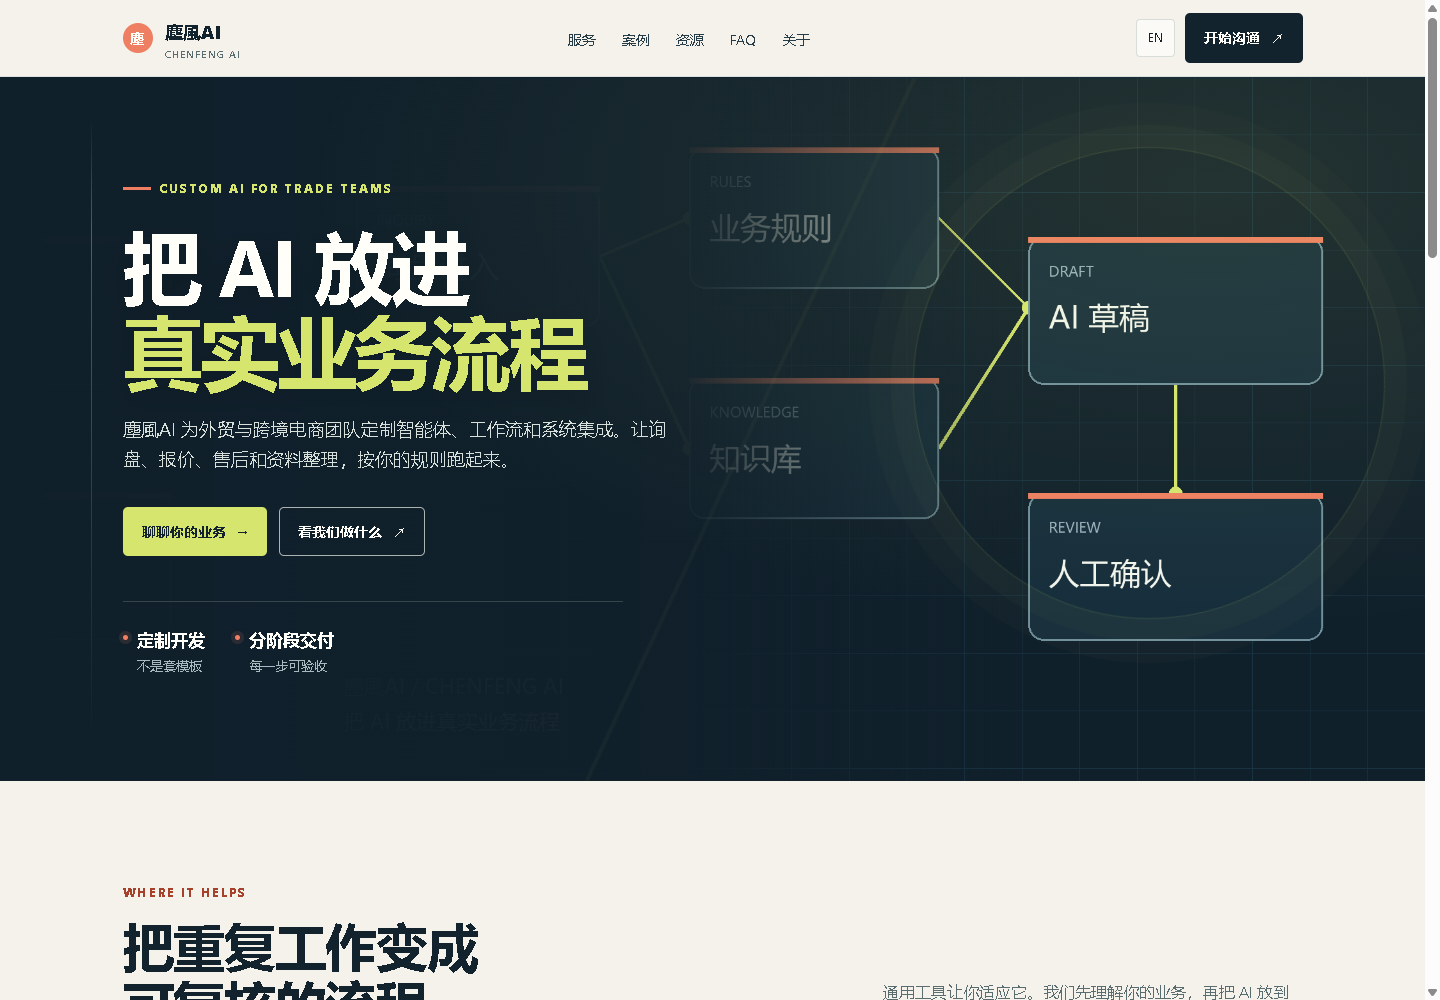
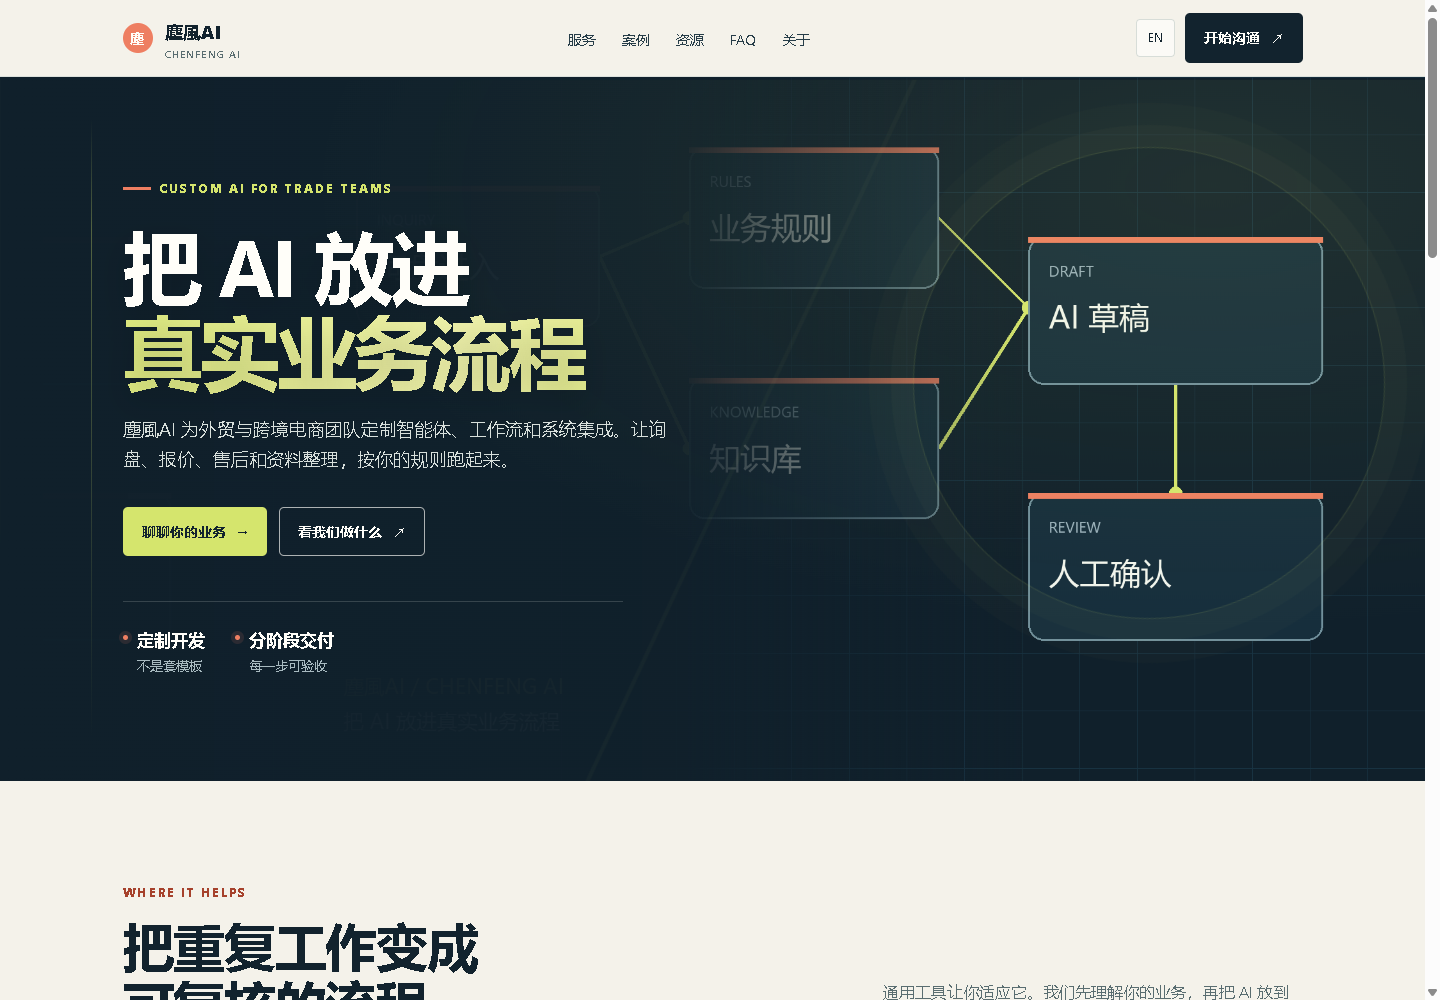
docs: record website stages 10 and 11 review

Changed region(s): [[0.1562, 0.31, 0.4062, 0.403]]

diff --git a/README.md b/README.md
@@ -12,13 +12,15 @@
 - 阶段 06 和 07 已完成 Codex 本地验收及 Muse 内容复核；双方各自执行范围见阶段摘要。
 - 独立检测后台已完成本地私有试用：真实扫描官网文件、页面筛选、版本历史与证据导出。仅本地，不是生产后台。
 - Muse已返回阶段09针对性复核，报告其标准库扫描、临时本地鉴权/导出与恢复检查通过；未运行pytest或独立真实浏览器检查，执行范围见阶段摘要。
+- 机器可读服务目录已完成本地构建和真实读取，与服务/匿名案例同源；只读公开信息，见[目录契约](PUBLIC-CATALOG.md)。
+- 阶段11视觉精修已完成本地浏览器验收，首屏、卡片与流程动态、手机和减少动态通过；见[阶段11](stage-11-motion-polish.md)。
 - 正式官网尚未部署。国内外 AI 消费端持续采样、生产后台与托管、GPT 接待与 A2A 实际交互尚未完成。
 
 公开文档与截图不证明上线、搜索索引、AI 引用、有效咨询或成交。这里没有用于部署的正式域名，也不提供虚构的收录概率。
 
 ## 阅读顺序
 
-1. [阶段 01](stage-01-research.md) → [02](stage-02-prototype.md) → [03](stage-03-browser.md) → [04](stage-04-resource.md) → [05](stage-05-release.md) → [06](stage-06-astro-visual.md) → [07](stage-07-resources.md) → [08](stage-08-public-sync.md) → [09](stage-09-local-dashboard.md)。
+1. [阶段 01](stage-01-research.md) → [02](stage-02-prototype.md) → [03](stage-03-browser.md) → [04](stage-04-resource.md) → [05](stage-05-release.md) → [06](stage-06-astro-visual.md) → [07](stage-07-resources.md) → [08](stage-08-public-sync.md) → [09](stage-09-local-dashboard.md) → [10](stage-10-agent-catalog.md) → [11](stage-11-motion-polish.md)。
 2. [后续路线](ROADMAP.md)与[公开范围](PUBLICATION-POLICY.md)。
 3. [内容维护规则](CONTENT-MAINTENANCE.md)、[中文简报](workflow-brief.zh.md)、[English brief](workflow-brief.en.md)。
 4. 固定候选问题 `question-baseline.v1.json` 与独立探索问题 `question-exploration.v1.json`；均未测量，不是热词或真实流量数据。

diff --git a/PUBLIC-CATALOG.md b/PUBLIC-CATALOG.md
@@ -1,0 +1,19 @@
+# 公开服务目录契约 v1
+
+Astro在构建时生成 `/service-catalog.json`，HTML头部通过 `rel="describedby"` 链接，llms纯文本目录也提供地址。读取不依赖JavaScript。此自有JSON契约只描述公开信息，没有标准Agent Card、协议调用或请求提交能力；生产仍待正式域名、HTTPS和发布验收。
+
+| 字段 | 内容与维护来源 |
+| --- | --- |
+| schemaVersion / contentVersion | 格式版本1及实际内容版本；不宣称每次构建重新审核 |
+| kind / readOnly / usage | public-service-catalog、true和中英只读用途说明 |
+| catalogUrl / indexingAllowed | 当前构建来源及是否配置允许索引；true不证明公网发布或收录 |
+| languages / organization | zh-CN与en、批准品牌/服务对象/区域及两语首页 |
+| contacts | 已批准的微信ID和WhatsApp号码/链接；没有新邮箱、表单或独立电话入口 |
+| services | 稳定id、双语名称/简介/来源URL及需要项目评估标记，来自services.ts |
+| caseStudies | 稳定id、双语标题/简介/阶段/证据/边界/来源URL，直接来自cases.ts |
+
+阶段编码：interaction-demo（交互演示）、proposal（项目方案）、proposal-and-local-demo（方案与本地演示）。这些不是生产交付背书。
+
+读取方先检查HTTP状态和Content-Type，再解析schemaVersion与usage；按urls获取对应语言正文核对上下文，引用真实来源页。字段不确定应停止推断，不从目录自动生成报价、预约或承诺。没有需求提交接口，客户仍通过微信或WhatsApp沟通。
+
+发布工具只允许此特定JSON，校验公开字段、现有页面覆盖、正文/JSON-LD/简介一致性、联系方式、预览标记和全部URL；额外API字段、错误案例阶段或来源漂移将阻止写出发布包。有限校验不能替代人工事实审阅，也不证明搜索引擎或AI会采纳此契约。

diff --git a/stage-10-agent-catalog.md b/stage-10-agent-catalog.md
@@ -1,0 +1,13 @@
+# 阶段10：机器可读服务目录与同源事实
+
+日期：2026-10-17。本文件为整理后的公开摘要，不含核心源码或原始验收证据。
+
+官网新增只读服务目录service-catalog.json，以现有Astro构建生成。六个中英服务详情的标题、简介和Service信息使用共享数据；目录直接复用相同服务数据和现有匿名案例源，包含3项服务、3组案例及12个中英来源页面。案例阶段、证据和边界保持原文，联系仅为批准的微信和WhatsApp。
+
+HTML头部和纯文本目录提供读取链接，内容无需前端JavaScript。目录声明只读资料，不提供请求提交或执行调用；没有额外API地址，不代替GPT接待、协议互通或自然发现。契约见[公开目录说明](PUBLIC-CATALOG.md)。
+
+本地受控构建30页、38公开文件、814项站内引用通过；27项发布测试通过，覆盖错误联系、简介漂移、案例阶段、未知接口/URL、损坏JSON及未批准产物。浏览器实测目录响应和12个来源对应、手机及无JavaScript正文可读，未观察到页面/控制台错误或写请求。
+
+独立比对确认30页主要正文、标题和简介保持一致，动画CSS/JS逐字节一致，保留既有视觉质感。协作者成品复核结果随后记录，不提前声称已复核。
+
+本阶段无新账号、Key、付费或任务，尚未生产发布。官网正式上线、生产后台、Muse持续发布、真实国内外消费端采样、咨询证据、GPT与A2A真实互通仍待完成；可读目录不证明AI引用或获客。

diff --git a/stage-11-motion-polish.md b/stage-11-motion-polish.md
@@ -1,0 +1,11 @@
+# 阶段11：视觉与动画精修
+
+日期：2026-10-17。官网继续使用Astro定制，沿用深色、暖白、荧光黄与珊瑚色视觉体系。
+
+本轮强化首屏分层入场、渐变文字高光、氛围光晕、阅读进度、滚动显现、卡片抬升与光晕、流程扫描线和步骤高亮。采用原生CSS及Web Animations API，未增加动画库；装饰动画仅运行一轮。手机减少装饰，支持系统减少动态及手动关闭。
+
+真实浏览器验证首屏动画、卡片上移6像素与指针光晕、流程扫描与阅读进度；中文390及英文360像素无横向溢出，菜单和联系入口可用。关闭动态与系统减少动态时活动动画为0；禁用JavaScript后正文与WhatsApp仍可读取；未观察到页面或控制台错误。
+
+受控预览30页、38公开文件、814站内引用；阶段10同源服务目录保留。截图为本地匿名官网预览。Muse成品复核随后按实际范围补记。
+
+本阶段无新增账号、密钥、付费或定时任务。尚未生产上线，不把视觉或技术检查当作AI收录、引用或客户咨询证据；完整获客与托管目标继续推进。

diff --git a/ROADMAP.md b/ROADMAP.md
@@ -21,3 +21,11 @@
 ## 后续实际更新 · 阶段09
 
 独立检测后台的本地私有试用已实现并验证；当前只读真实官网发布文件。正式部署、消费端真实采集、持续运营、咨询归因、GPT与A2A仍按原完整范围推进，本地扫描不替代这些验收。
+
+## 后续实际更新 · 阶段10
+
+同源机器可读服务目录已完成本地构建与读取验证，提供后续GPT/Agent公开事实基础。目录只读，不替代真实协议、模型服务、生产采样与获客，完整范围继续保留。
+
+## 后续实际更新 · 阶段11
+
+高级视觉与动画为持续验收项；本轮首屏、卡片与流程动态精修通过本地桌面/手机验收，减少动态及无JavaScript正文保持可用。生产上线与获客仍按各自证据验收。
